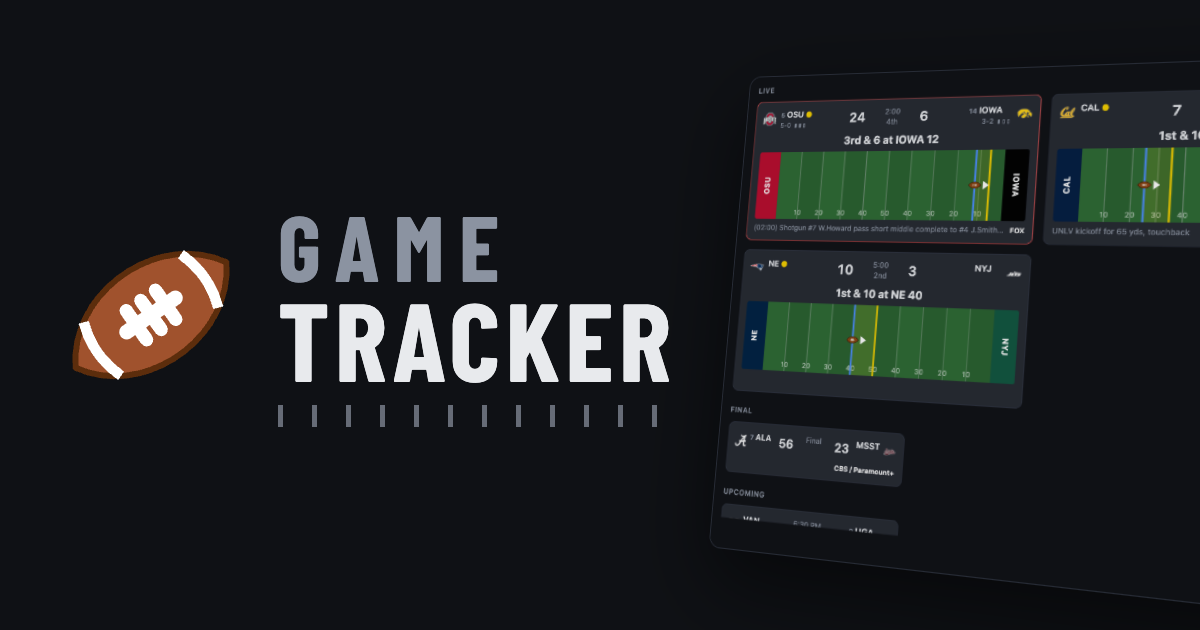
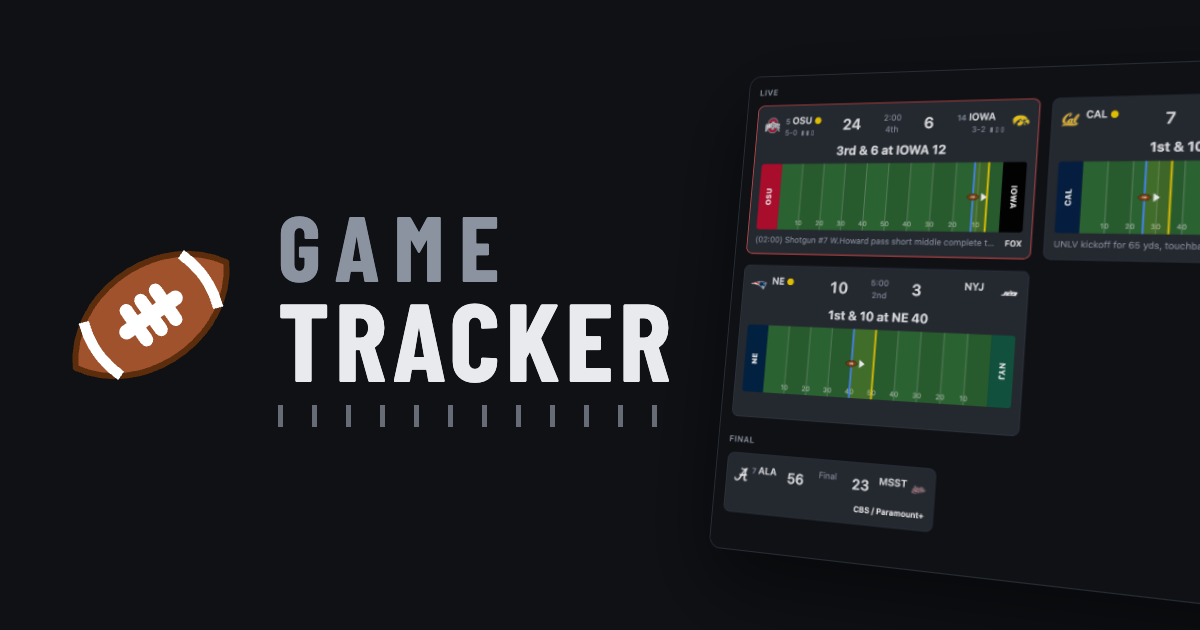
Cards always fill their row; narrow Final/Upcoming cards stack two to a row on phones

Changed region(s): [[0.5858, 0.1206, 1.0, 0.8444]]

diff --git a/css/board.css b/css/board.css
@@ -2,19 +2,21 @@
 #board { overflow-y: auto; padding: 16px 16px 32px; }
 /* Live / Final / Upcoming. Final and Upcoming cards have no field, so they sit in narrower columns. */
 .board-group + .board-group { margin-top: 24px; }
-/* Live cards are 380–560px wide and Final/Upcoming cards 300px: each section fits as many columns as its minimum
-   allows, and the columns stop growing at the maximum, leaving any spare room on the right. (auto-fill can't do this:
-   it counts columns by the maximum.) Breakpoints are n × min + (n − 1) × 16px gap. */
-.board-group { container-type: inline-size; }
-.cards { --cols: 1; --max: 560px; display: grid; grid-template-columns: repeat(var(--cols), minmax(0, var(--max))); gap: 16px; }
-@container (min-width: 776px) { .live .cards { --cols: 2; } }
-@container (min-width: 1172px) { .live .cards { --cols: 3; } }
-@container (min-width: 1568px) { .live .cards { --cols: 4; } }
-.compact .cards { --max: 300px; }
-@container (min-width: 616px) { .compact .cards { --cols: 2; } }
-@container (min-width: 932px) { .compact .cards { --cols: 3; } }
-@container (min-width: 1248px) { .compact .cards { --cols: 4; } }
-@container (min-width: 1564px) { .compact .cards { --cols: 5; } }
+/* Cards always share the full row; only the column count changes with the section's width, so no row ever ends in
+   empty space. Live cards get as many columns as fit at 340px or wider. Final/Upcoming cards get the count that
+   keeps them closest to 300px wide (n columns from 316n − 158 − 16 = 316n − 174 … rounded), so a phone around 460px
+   wide fits two, in the stacked layout below. Breakpoints include the 16px gap. */
+.board-group { container: section / inline-size; }
+.cards { --cols: 1; display: grid; grid-template-columns: repeat(var(--cols), minmax(0, 1fr)); gap: 16px; }
+@container section (min-width: 696px) { .live .cards { --cols: 2; } }
+@container section (min-width: 1052px) { .live .cards { --cols: 3; } }
+@container section (min-width: 1408px) { .live .cards { --cols: 4; } }
+@container section (min-width: 1764px) { .live .cards { --cols: 5; } }
+@container section (min-width: 458px) { .compact .cards { --cols: 2; } }
+@container section (min-width: 774px) { .compact .cards { --cols: 3; } }
+@container section (min-width: 1090px) { .compact .cards { --cols: 4; } }
+@container section (min-width: 1406px) { .compact .cards { --cols: 5; } }
+@container section (min-width: 1722px) { .compact .cards { --cols: 6; } }
 .board-section { margin: 0 0 10px; color: var(--muted); font-size: 12px; font-weight: 600; letter-spacing: .06em; text-transform: uppercase; }
 .card { position: relative; min-width: 0; background: var(--card); border: 1px solid var(--card-border); border-radius: 10px; padding: 12px; }
 .card.redzone { border-color: var(--red); }
@@ -55,6 +57,20 @@
 .compact .team .pts { font-size: 20px; }
 /* No possession dot or timeouts before or after a game, so drop their placeholders instead of reserving room. */
 .compact .poss.hide, .compact .to.hide { display: none; }
+/* Under 280px a side-by-side scoreboard doesn't fit, so Final/Upcoming cards stack like the game list's score bug:
+   away over home, each with its score, and the status on the right. (The query measures inside the 12px padding and
+   1px border, so 280px wide is 254px here.) */
+.compact .card { container: card / inline-size; }
+@container card (max-width: 253px) {
+  /* Scoped with .compact so these outrank the tighter-row rules above. */
+  .compact .score { grid-template-columns: minmax(0, 1fr) auto; grid-template-areas: "away clock" "home clock"; row-gap: 6px; column-gap: 10px; }
+  .compact .team.away { grid-area: away; }
+  .compact .team.home { grid-area: home; flex-direction: row-reverse; }  /* its markup is mirrored (score, name, logo) */
+  .compact .team.home .name { text-align: left; }
+  .compact .team.home .pts { margin-left: auto; margin-right: 0; text-align: right; }
+  .compact .team .pts { font-size: 18px; line-height: 22px; }
+  .compact .clock { grid-area: clock; height: auto; text-align: right; }
+}
 .clock { text-align: center; color: var(--muted); font-size: 12px; line-height: 17px; height: 34px; font-variant-numeric: tabular-nums; white-space: nowrap; overflow: hidden; }
 .dd { text-align: center; font-size: 18px; font-weight: 700; margin: 8px 0 6px; height: 25px; line-height: 25px; white-space: nowrap; overflow: hidden; text-overflow: ellipsis; }
 svg.field { width: 100%; display: block; border-radius: 4px; }

diff --git a/tests/app.spec.js b/tests/app.spec.js
@@ -573,16 +573,24 @@ test.describe("board", () => {
     expect(await width("cfb:7")).toBeLessThan(await width("cfb:1"));
   });
 
-  test("cards never stretch past their column's cap, however wide the board gets", async ({ page }) => {
-    await open(page, { storage: { selected: ["cfb:1", "cfb:7", "cfb:5"] } });
+  test("cards share each section's full width, with the column count set by the board's width", async ({ page }) => {
+    await open(page, { storage: { selected: ["cfb:1", "cfb:2", "cfb:7", "cfb:5", "cfb:6", "cfb:8"] } });
+    // The columns fill the section exactly: no leftover space at the end of a row.
+    const fill = (sel) => page.locator(sel).first().evaluate((el) => {
+      const s = getComputedStyle(el), tracks = s.gridTemplateColumns.split(" ").map(parseFloat);
+      return Math.abs(tracks.reduce((a, b) => a + b) + (tracks.length - 1) * parseFloat(s.columnGap) - el.clientWidth);
+    });
     for (const width of [760, 1000, 1300, 1900]) {
       await page.setViewportSize({ width, height: 900 });
-      expect((await card(page, "cfb:1").boundingBox()).width).toBeLessThanOrEqual(560);
-      expect((await card(page, "cfb:7").boundingBox()).width).toBeLessThanOrEqual(300);
-      expect((await card(page, "cfb:5").boundingBox()).width).toBeLessThanOrEqual(300);
+      expect(await fill(".live .cards")).toBeLessThan(1);
+      expect(await fill(".compact .cards")).toBeLessThan(1);
+      expect((await card(page, "cfb:1").boundingBox()).width).toBeGreaterThanOrEqual(340);
+      const compact = (await card(page, "cfb:7").boundingBox()).width;
+      expect(compact).toBeGreaterThan(220);
+      expect(compact).toBeLessThan(460);
       expect(await page.evaluate(() => document.documentElement.scrollWidth <= innerWidth)).toBe(true);
     }
-    // At 1300px the board (about 970px) fits two live columns and three compact ones.
+    // At 1300px the board (about 970px) has two live columns and three compact ones.
     await page.setViewportSize({ width: 1300, height: 900 });
     const cols = (sel) => page.locator(sel).first().evaluate((el) => getComputedStyle(el).gridTemplateColumns.split(" ").length);
     expect(await cols(".live .cards")).toBe(2);
@@ -933,6 +941,25 @@ test.describe("mobile", () => {
     await expect(card(page, "cfb:1")).toBeVisible();
     expect(await page.evaluate(() => document.documentElement.scrollWidth)).toBeLessThanOrEqual(390);
     const clipped = await page.locator(".card .name").evaluateAll((els) => els.filter((e) => e.scrollWidth > e.clientWidth + 1).length);
+    expect(clipped).toBe(0);
+  });
+
+  test("phones around 500px wide fit two stacked Final/Upcoming cards to a row, with even margins", async ({ page }) => {
+    await page.setViewportSize({ width: 500, height: 900 });
+    await open(page, { storage: { selected: ["cfb:7", "cfb:5", "cfb:6"], pickerOpen: false } });
+    const box = (key) => card(page, key).boundingBox();
+    const [fin, up1, up2] = [await box("cfb:7"), await box("cfb:5"), await box("cfb:6")];
+    expect(Math.abs(up1.y - up2.y)).toBeLessThan(1);                // side by side
+    expect(Math.abs(up1.width - up2.width)).toBeLessThan(1);
+    expect(Math.abs(up1.x - (500 - (up2.x + up2.width)))).toBeLessThan(1);  // same margin left and right
+    // The lone Final card spans the whole row instead of leaving half of it empty.
+    expect(Math.abs(fin.x - up1.x)).toBeLessThan(1);
+    expect(Math.abs(fin.x + fin.width - (up2.x + up2.width))).toBeLessThan(1);
+    // Narrow cards stack away over home, with the status on the right.
+    expect(await card(page, "cfb:5").locator(".score").evaluate((el) => getComputedStyle(el).gridTemplateAreas)).toContain("away clock");
+    const away = await card(page, "cfb:5").locator(".team.away").boundingBox(), home = await card(page, "cfb:5").locator(".team.home").boundingBox();
+    expect(home.y).toBeGreaterThan(away.y + away.height - 1);
+    const clipped = await page.locator(".card .abbr").evaluateAll((els) => els.filter((e) => e.getBoundingClientRect().right > e.closest(".name").getBoundingClientRect().right + 1).length);
     expect(clipped).toBe(0);
   });
 

diff --git a/scripts/share-images.js b/scripts/share-images.js
@@ -25,7 +25,7 @@ async function renderIcon(browser) {
 // A screenshot of the app filled with the test fixtures instead of live ESPN data, so it comes out the same every time.
 // Taken in the dark theme at a larger size than the preview so more cards fit, then scaled down beside the logo.
 async function screenshotApp(browser) {
-  const page = await browser.newPage({ viewport: { width: 1500, height: 788 }, colorScheme: "dark" });
+  const page = await browser.newPage({ viewport: { width: 1300, height: 683 }, deviceScaleFactor: 1.5, colorScheme: "dark" });
   await page.addInitScript((keys) => localStorage.setItem("selected", JSON.stringify(keys)), PREVIEW_GAMES);
   await page.route("https://site.api.espn.com/**", (route) => {
     const url = route.request().url();

diff --git a/css/mobile.css b/css/mobile.css
@@ -30,6 +30,6 @@
   .team { gap: 6px; }
   .team img { width: 20px; height: 20px; }
   .team .pts { font-size: 20px; }
-  /* A phone's single column is narrow already, so Final/Upcoming cards may fill it (up to 400px on wider phones). */
-  .compact .cards { --max: 400px; }
+  /* Two Final/Upcoming cards to a row: an odd one out takes the whole last row, so no row is left half empty. */
+  @container section (min-width: 458px) { .compact .card:last-child:nth-child(odd) { grid-column: 1 / -1; } }
 }
